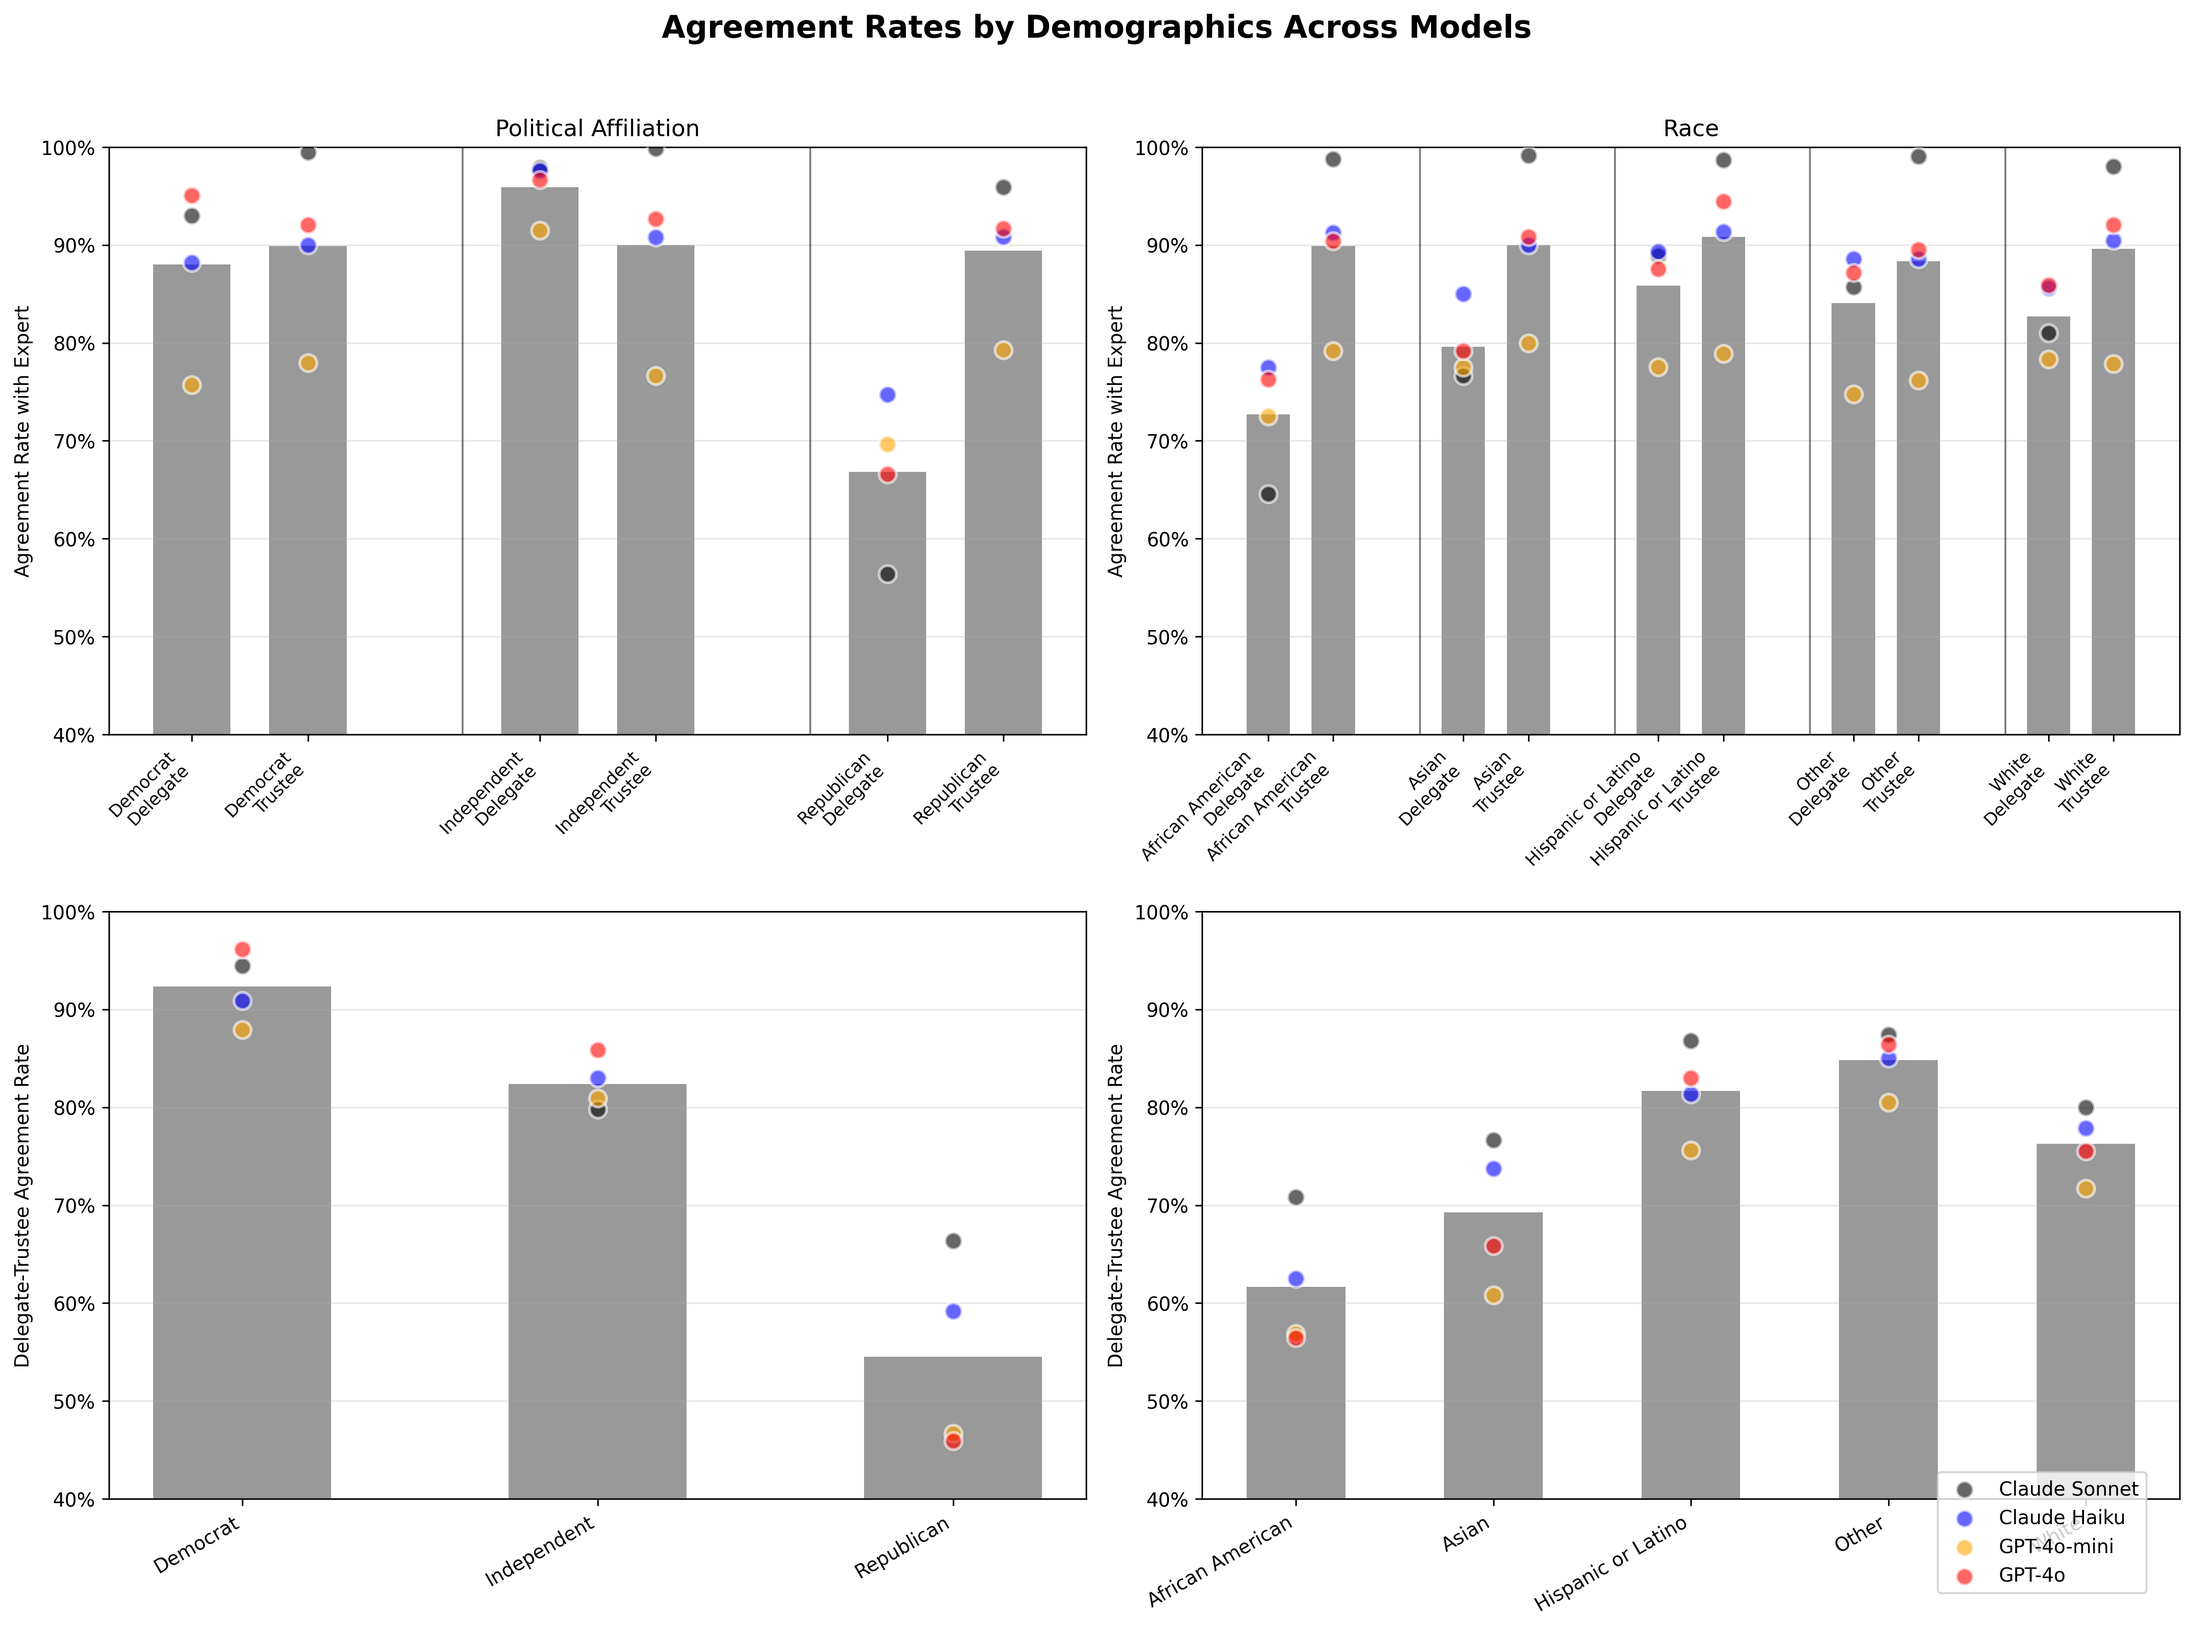
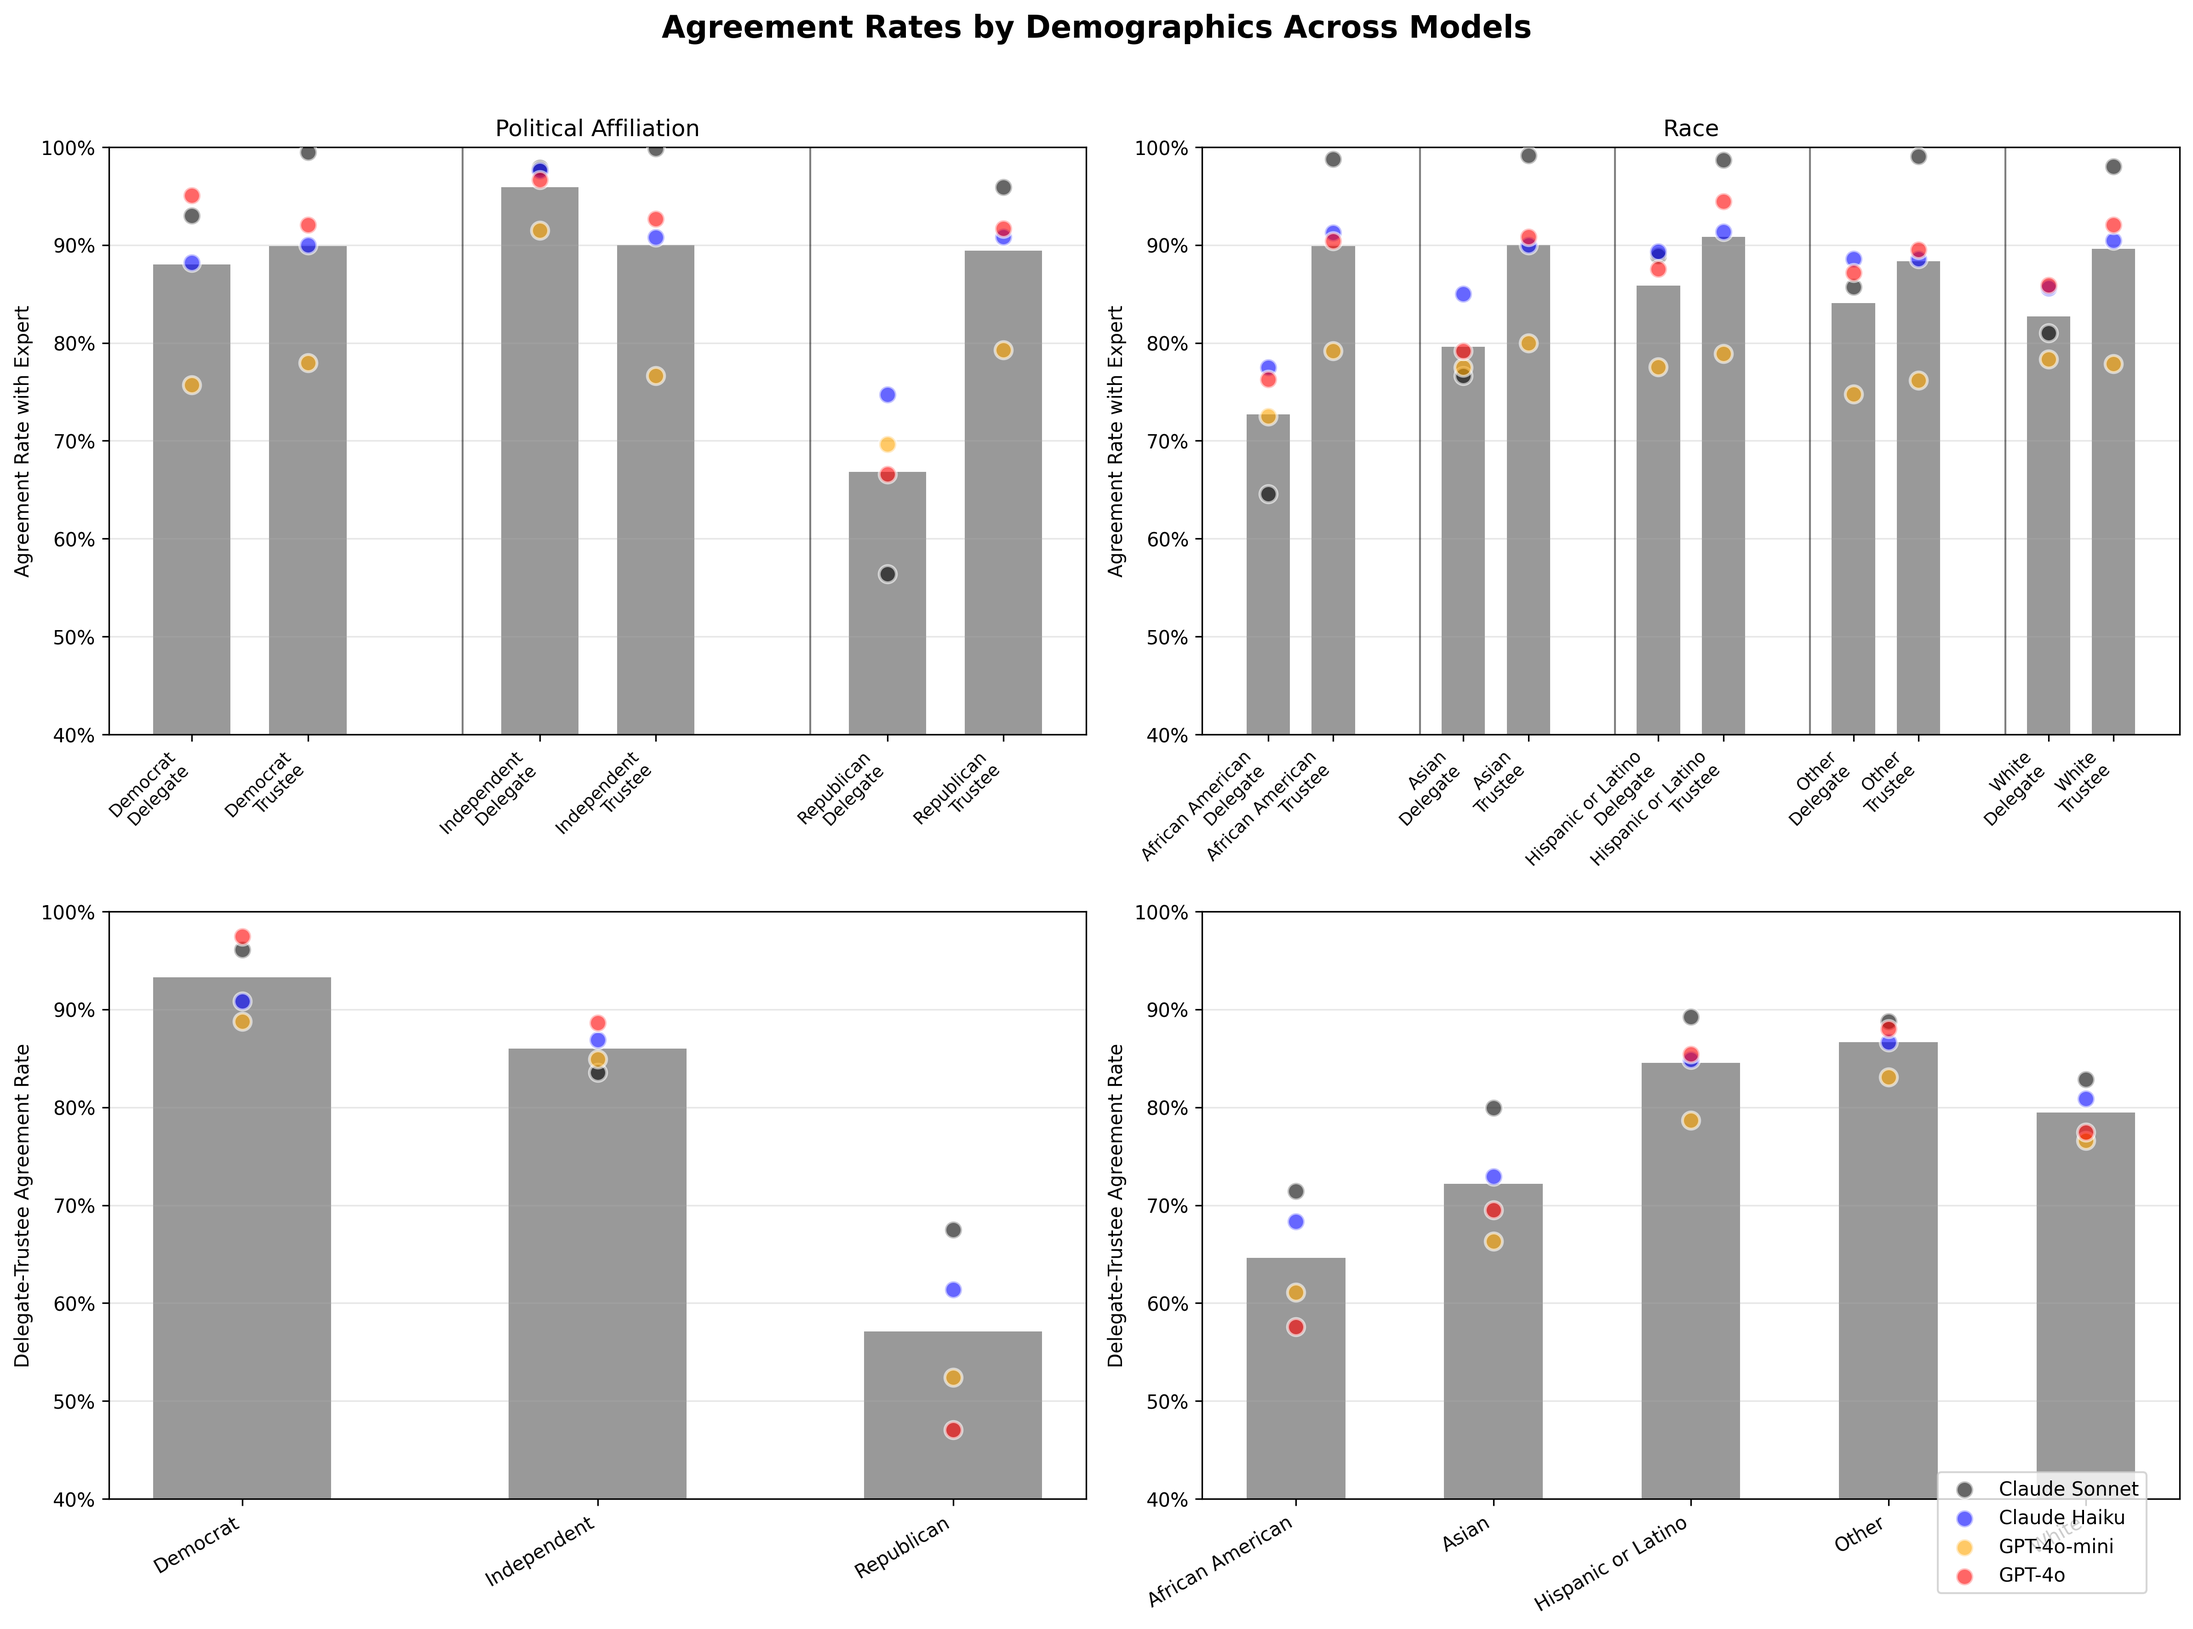
Fixes

diff --git a/code/demographic_agreement_combined_plot.py b/code/demographic_agreement_combined_plot.py
@@ -13,10 +13,9 @@ import pandas as pd
 import numpy as np
 import matplotlib.pyplot as plt
 from typing import List, Dict, Tuple
-from agreement_demographics import (
-    create_agreement_dataframe,
-    create_delegate_trustee_agreement_dataframe
-)
+from agreement_demographics import create_agreement_dataframe
+from vote_data_loader import _load_delegate_data, _load_trustee_data
+from compare_delegates_trustees import calculate_weighted_vote, calculate_discounted_vote
 
 # Model configuration
 MODELS = [
@@ -119,23 +118,25 @@ def collect_expert_agreement_data(
     return results_df
 
 
-def collect_delegate_trustee_agreement_data(
+def collect_delegate_trustee_proportion_agreement_data(
     policy_indices: List[int],
-    prompt_nums: List[int],
+    delegate_prompt_nums: List[int],
+    trustee_prompt_nums: List[int],
     models: List[str],
     trustee_type: str,
     bio_df: pd.DataFrame,
     demographic: str,
-    alphas: List[float]
+    alpha: float
 ) -> pd.DataFrame:
     """
-    Collect delegate-trustee internal agreement rates
-    across all models and demographic groups.
+    Collect delegate-trustee agreement based on proportion differences.
+
+    Agreement = 1 - |delegate_yes_prop - trustee_yes_prop|
 
     Returns DataFrame with columns:
     - demographic_group: The demographic category
     - model: Model name
-    - agreement_rate: Delegate-trustee agreement rate
+    - agreement_rate: Agreement based on yes proportion difference
     """
     all_results = []
 
@@ -144,32 +145,103 @@ def collect_delegate_trustee_agreement_data(
 
         for policy_idx in policy_indices:
             try:
-                df = create_delegate_trustee_agreement_dataframe(
-                    policy_index=policy_idx,
-                    prompt_nums=prompt_nums,
-                    model=model,
-                    trustee_type=trustee_type,
-                    bio_df=bio_df,
-                    demographic=demographic,
-                    alphas=alphas
-                )
+                # Collect all delegate and trustee votes for this policy
+                all_delegate_votes = []
+                all_trustee_votes = []
 
-                # Extract agreement rates by group
-                for col in df.columns:
-                    if col.startswith("agreement_"):
-                        group = col.replace("agreement_", "")
-                        # Average across alphas
-                        val = df[col].mean()
+                # Load delegate data from all prompts
+                for prompt_num in delegate_prompt_nums:
+                    delegate_file = f"../data/delegate/{model}/self_selected_policies_new/prompt-{prompt_num}/d_policy_{policy_idx + 1}_votes.jsonl"
+                    try:
+                        delegate_df = _load_delegate_data(delegate_file)
+                        if len(delegate_df) > 0 and 'participant_id' in delegate_df.columns:
+                            # Merge with bio data
+                            delegate_df = delegate_df.merge(bio_df, left_on='participant_id', right_on='participant_id', how='left')
+                            all_delegate_votes.append(delegate_df)
+                    except FileNotFoundError:
+                        print(f"    Delegate file not found: prompt {prompt_num}")
+                        continue
+                    except Exception as e:
+                        print(f"    Error loading delegate data from prompt {prompt_num}: {e}")
+                        continue
+
+                # Load trustee data from all prompts and calculate votes
+                for prompt_num in trustee_prompt_nums:
+                    trustee_file = f"../data/{trustee_type}/{model}/self_selected_policies_new/prompt-{prompt_num}/t_policy_{policy_idx + 1}_votes.jsonl"
+                    try:
+                        trustee_df = _load_trustee_data(trustee_file, trustee_type)
+
+                        if len(trustee_df) == 0:
+                            continue
+
+                        # Calculate trustee votes using alpha
+                        trustee_votes_list = []
+                        for _, row in trustee_df.iterrows():
+                            try:
+                                if trustee_type == "trustee_ls":
+                                    entry = {
+                                        "yes_vote": {"short_util": row['yes_short_util'], "long_util": row['yes_long_util']},
+                                        "no_vote": {"short_util": row['no_short_util'], "long_util": row['no_long_util']}
+                                    }
+                                    vote_result = calculate_weighted_vote(entry, alpha)
+                                elif trustee_type == "trustee_lsd":
+                                    entry = {"yes": {}, "no": {}}
+                                    for period in ["0-5 years", "5-10 years", "10-15 years", "15-20 years", "20-25 years", "25-30 years"]:
+                                        period_key = period.replace("-", "_").replace(" ", "_")
+                                        entry["yes"][period] = {"score": row[f'yes_{period_key}_score']}
+                                        entry["no"][period] = {"score": row[f'no_{period_key}_score']}
+                                    vote_result = calculate_discounted_vote(entry, alpha)
+
+                                trustee_votes_list.append({
+                                    'participant_id': row['participant_id'],
+                                    'vote': vote_result['vote']
+                                })
+                            except Exception as e:
+                                continue
+
+                        if trustee_votes_list:
+                            trustee_vote_df = pd.DataFrame(trustee_votes_list)
+                            trustee_vote_df = trustee_vote_df.merge(bio_df, on='participant_id', how='left')
+                            all_trustee_votes.append(trustee_vote_df)
+
+                    except FileNotFoundError:
+                        print(f"    Trustee file not found: prompt {prompt_num}")
+                        continue
+                    except Exception as e:
+                        print(f"    Error loading trustee data from prompt {prompt_num}: {e}")
+                        continue
+
+                if not all_delegate_votes or not all_trustee_votes:
+                    continue
+
+                # Combine all votes
+                delegate_combined = pd.concat(all_delegate_votes, ignore_index=True)
+                trustee_combined = pd.concat(all_trustee_votes, ignore_index=True)
+               # print(delegate_combined)
+               # print(trustee_combined)
+                #raise Exception("Stop here")
+                # Calculate agreement by demographic group
+                for group in delegate_combined[demographic].dropna().unique():
+                    delegate_group = delegate_combined[delegate_combined[demographic] == group]
+                    trustee_group = trustee_combined[trustee_combined[demographic] == group]
+
+                    if len(delegate_group) > 0 and len(trustee_group) > 0:
+                        delegate_yes_prop = ((delegate_group['vote'] == 'Yes') | (delegate_group['vote'] == 'yes')).mean()
+                        trustee_yes_prop = ((trustee_group['vote'] == 'Yes') | (trustee_group['vote'] == 'yes')).mean()
+
+                        agreement = 1 - abs(delegate_yes_prop - trustee_yes_prop)
 
                         all_results.append({
                             "demographic_group": group,
                             "model": model,
-                            "agreement_rate": val,
+                            "agreement_rate": agreement,
                             "policy_idx": policy_idx
                         })
 
             except Exception as e:
                 print(f"  Error with policy {policy_idx + 1}: {e}")
+                import traceback
+                traceback.print_exc()
                 continue
 
     results_df = pd.DataFrame(all_results)
@@ -384,10 +456,13 @@ def create_combined_demographic_plot(
     expert_consensus_policies: List[int],
     no_consensus_policies: List[int],
     prompt_nums: List[int],
+    delegate_prompt_nums: List[int],
+    trustee_prompt_nums: List[int],
     trustee_type: str,
     bio_df: pd.DataFrame,
     demographics: List[str],
     alphas: List[float],
+    alpha: float,
     figsize: Tuple[int, int] = (16, 12),
     output_file: str = None
 ):
@@ -395,8 +470,22 @@ def create_combined_demographic_plot(
     Create combined 2x2 plot showing agreement by demographics across models.
 
     Top row: Agreement with expert consensus (delegate/trustee)
-    Bottom row: Delegate-trustee internal agreement
+    Bottom row: Delegate-trustee agreement based on proportion differences (1 - |delegate_yes_prop - trustee_yes_prop|)
     Columns: One for each demographic (Political Affiliation, Race)
+
+    Args:
+        expert_consensus_policies: Policy indices with expert votes
+        no_consensus_policies: Policy indices without expert votes
+        prompt_nums: Prompt numbers for expert agreement (top row)
+        delegate_prompt_nums: Delegate prompt numbers for bottom row
+        trustee_prompt_nums: Trustee prompt numbers for bottom row
+        trustee_type: "trustee_ls" or "trustee_lsd"
+        bio_df: Biography dataframe with demographic info
+        demographics: List of demographic columns to plot
+        alphas: Alpha values for expert agreement calculation (top row)
+        alpha: Single alpha value for bottom row trustee calculation
+        figsize: Figure size
+        output_file: Optional output file path
     """
     print("=" * 70)
     print("Creating Combined Demographic Agreement Visualization")
@@ -429,16 +518,17 @@ def create_combined_demographic_plot(
             demographic  # Just the demographic name, no "Agreement with Expert Consensus"
         )
 
-        # Bottom row: Delegate-trustee agreement
+        # Bottom row: Delegate-trustee agreement (proportion-based)
         print("\n--- Collecting delegate-trustee agreement data ---")
-        dt_data = collect_delegate_trustee_agreement_data(
+        dt_data = collect_delegate_trustee_proportion_agreement_data(
             policy_indices=no_consensus_policies,
-            prompt_nums=prompt_nums,
+            delegate_prompt_nums=delegate_prompt_nums,
+            trustee_prompt_nums=trustee_prompt_nums,
             models=MODELS,
             trustee_type=trustee_type,
             bio_df=bio_df,
             demographic=demographic,
-            alphas=alphas
+            alpha=alpha
         )
 
         plot_delegate_trustee_agreement_panel(
@@ -490,13 +580,25 @@ if __name__ == "__main__":
 
     # Configuration
     trustee_type = "trustee_ls"
-    prompt_nums = [0, 1, 2]
-    alphas = [1.0]  # Use alpha=1.0 for trustee calculations
+    prompt_nums = [0, 1, 2]  # For expert agreement (top row)
+    delegate_prompt_nums = [0, 1, 2, 3, 4]  # For bottom row
+    trustee_prompt_nums = [0, 1, 2]  # For bottom row
+    alphas = [1.0]  # Use alpha=1.0 for expert agreement (top row)
+    alpha = 1.0  # Use alpha=1.0 for trustee calculations (bottom row)
 
     # Split policies by expert consensus availability
     # TODO: Programmatically determine which policies have expert consensus
-    expert_consensus_policies = list(range(20, 30))  # Policies with expert votes
-    no_consensus_policies = list(range(0, 20))       # Policies without expert votes
+    self_selected_policies = pd.read_json("../self_selected_policies_new.jsonl", lines=True)
+    print(self_selected_policies.head())
+    expert_consensus_policies = self_selected_policies[self_selected_policies['consensus'] == 'Yes']['id'].tolist()
+    expert_consensus_policies = [policy - 1 for policy in expert_consensus_policies]
+    no_consensus_policies = self_selected_policies[self_selected_policies['consensus'] == 'No']['id'].tolist()
+    no_consensus_policies = [policy - 1 for policy in no_consensus_policies]
+    print(f"Expert consensus policies: {len(expert_consensus_policies)}")
+    print(f"No consensus policies: {len(no_consensus_policies)}")
+    #raise Exception("Stop here")
+    #expert_consensus_policies = list(range(20, 30))  # Policies with expert votes
+    #no_consensus_policies = list(range(0, 20))       # Policies without expert votes
 
     demographics = ["Political Affiliation", "Race"]
 
@@ -504,9 +606,12 @@ if __name__ == "__main__":
         expert_consensus_policies=expert_consensus_policies,
         no_consensus_policies=no_consensus_policies,
         prompt_nums=prompt_nums,
+        delegate_prompt_nums=delegate_prompt_nums,
+        trustee_prompt_nums=trustee_prompt_nums,
         trustee_type=trustee_type,
         bio_df=bio_df,
         demographics=demographics,
         alphas=alphas,
+        alpha=alpha,
         output_file="agreement_visuals/combined_demographic_agreement.png"
     )
